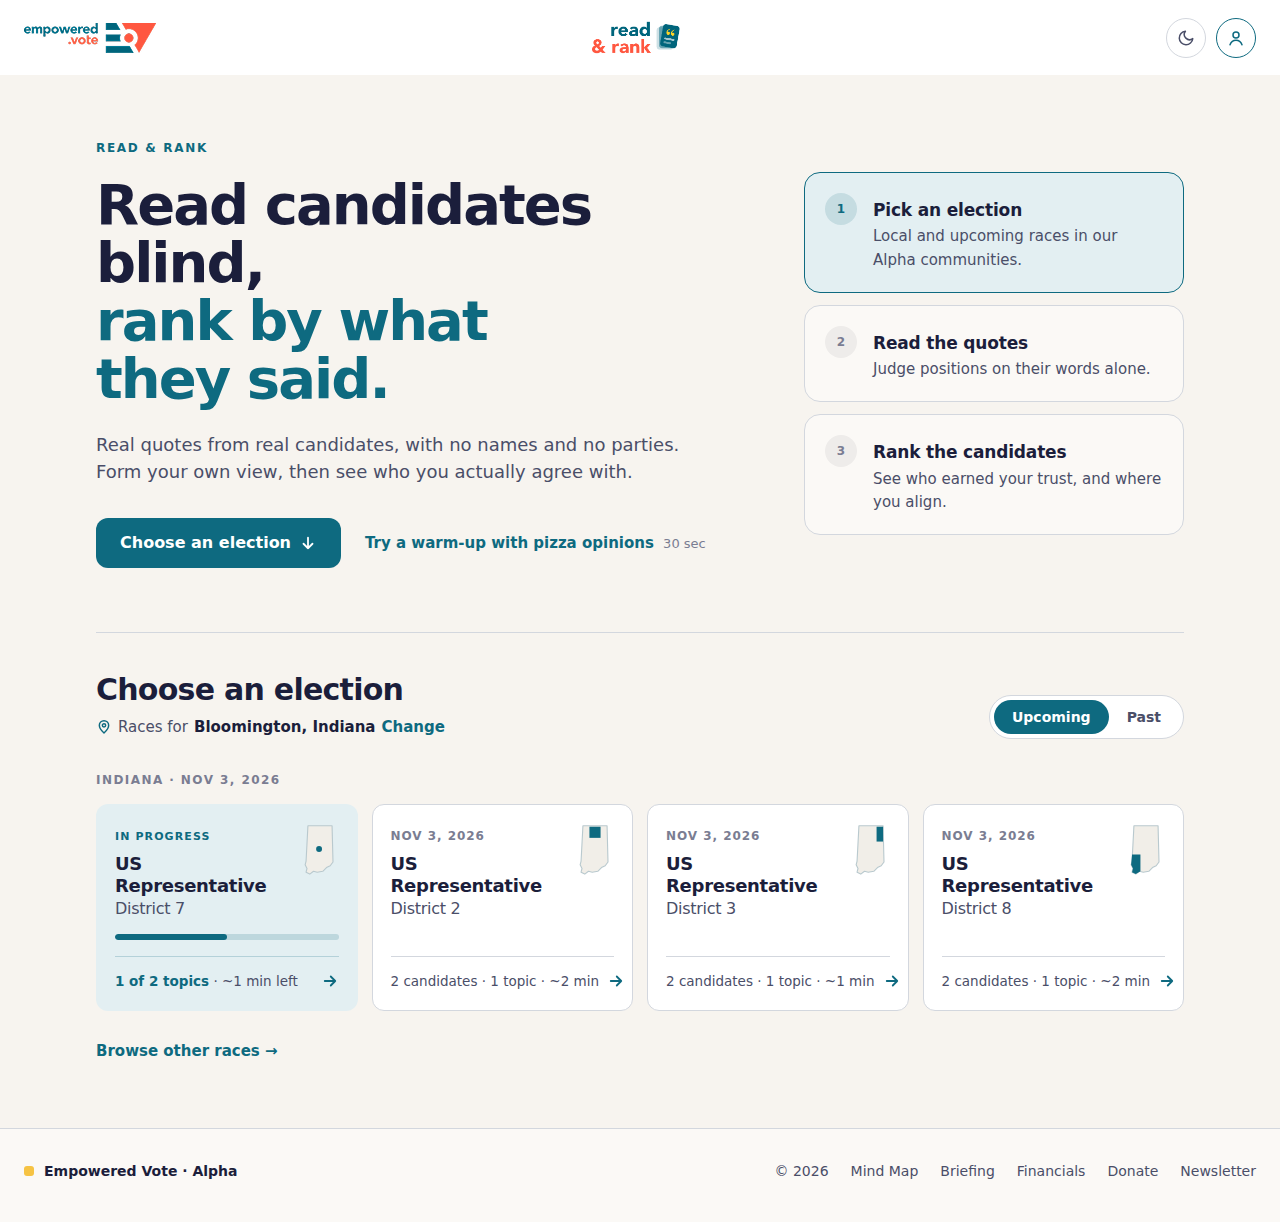
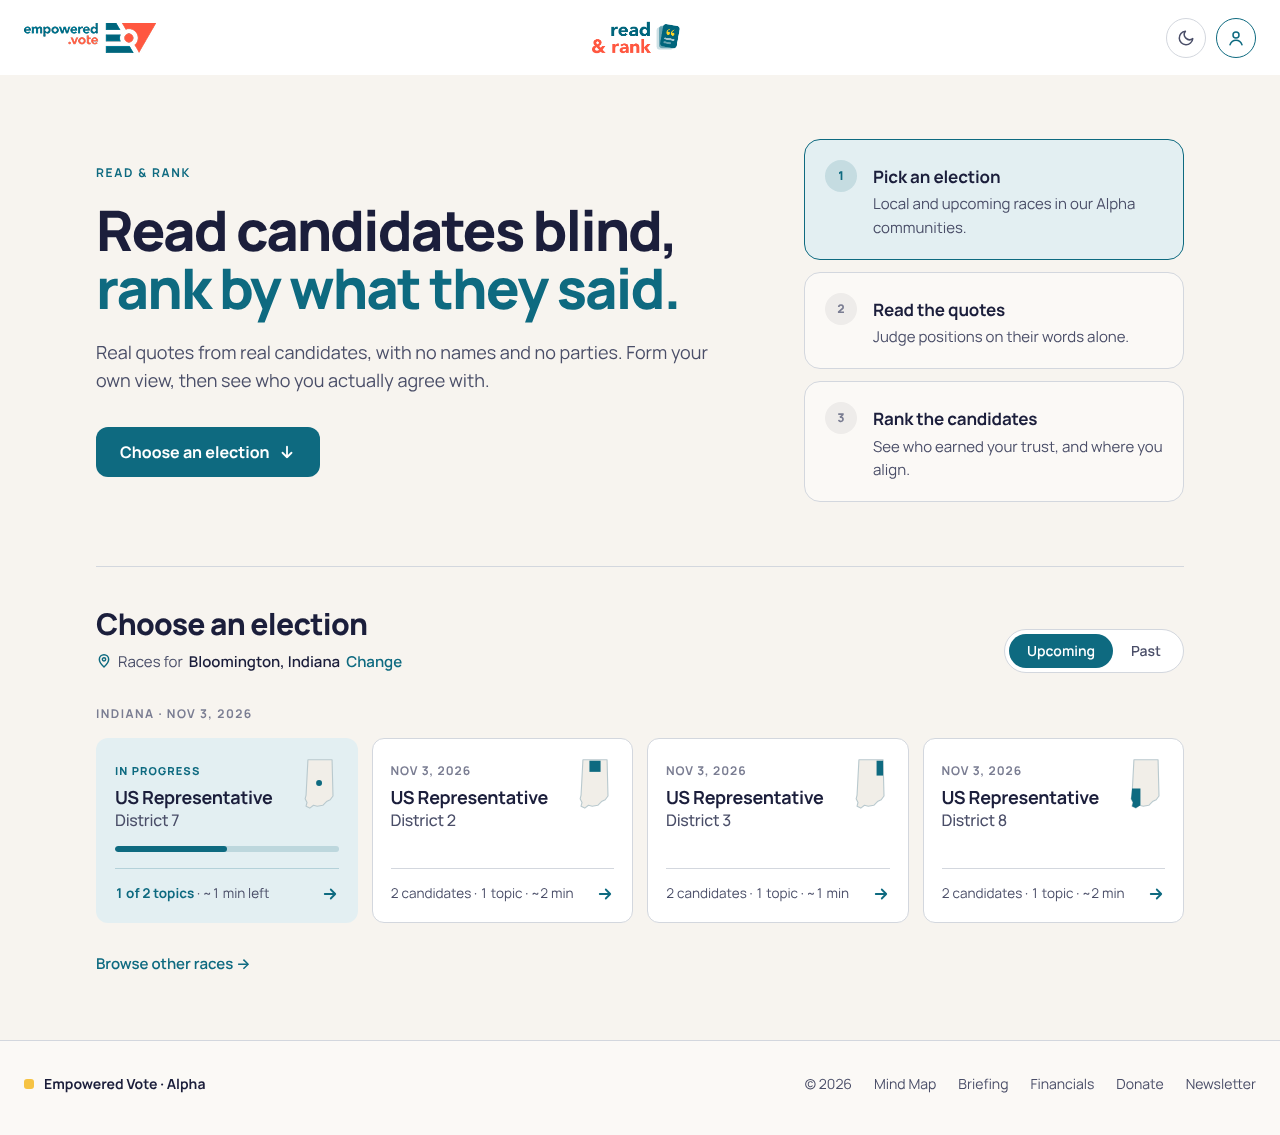
docs: remove the pizza warm-up link from the prototype landing page
Claude-Session: https://claude.ai/code/session_01DwfCu4GsxXBrSLCryEySUF

diff --git a/docs/design/readrank-ux-redesign/prototype/index.html b/docs/design/readrank-ux-redesign/prototype/index.html
@@ -2367,7 +2367,6 @@
           Choose an election
           <svg width="18" height="18" viewBox="0 0 24 24" fill="none" stroke="currentColor" stroke-width="2.4" stroke-linecap="round" stroke-linejoin="round" aria-hidden="true"><path d="M12 5v14M6 13l6 6 6-6"/></svg>
         </a>
-        <a class="link" href="#">Try a warm-up with pizza opinions <small>30 sec</small></a>
       </div>
     </div>
 

diff --git a/docs/design/readrank-ux-redesign/prototype/landing.html b/docs/design/readrank-ux-redesign/prototype/landing.html
@@ -275,7 +275,6 @@
           Choose an election
           <svg width="18" height="18" viewBox="0 0 24 24" fill="none" stroke="currentColor" stroke-width="2.4" stroke-linecap="round" stroke-linejoin="round" aria-hidden="true"><path d="M12 5v14M6 13l6 6 6-6"/></svg>
         </a>
-        <a class="link" href="#">Try a warm-up with pizza opinions <small>30 sec</small></a>
       </div>
     </div>
 
